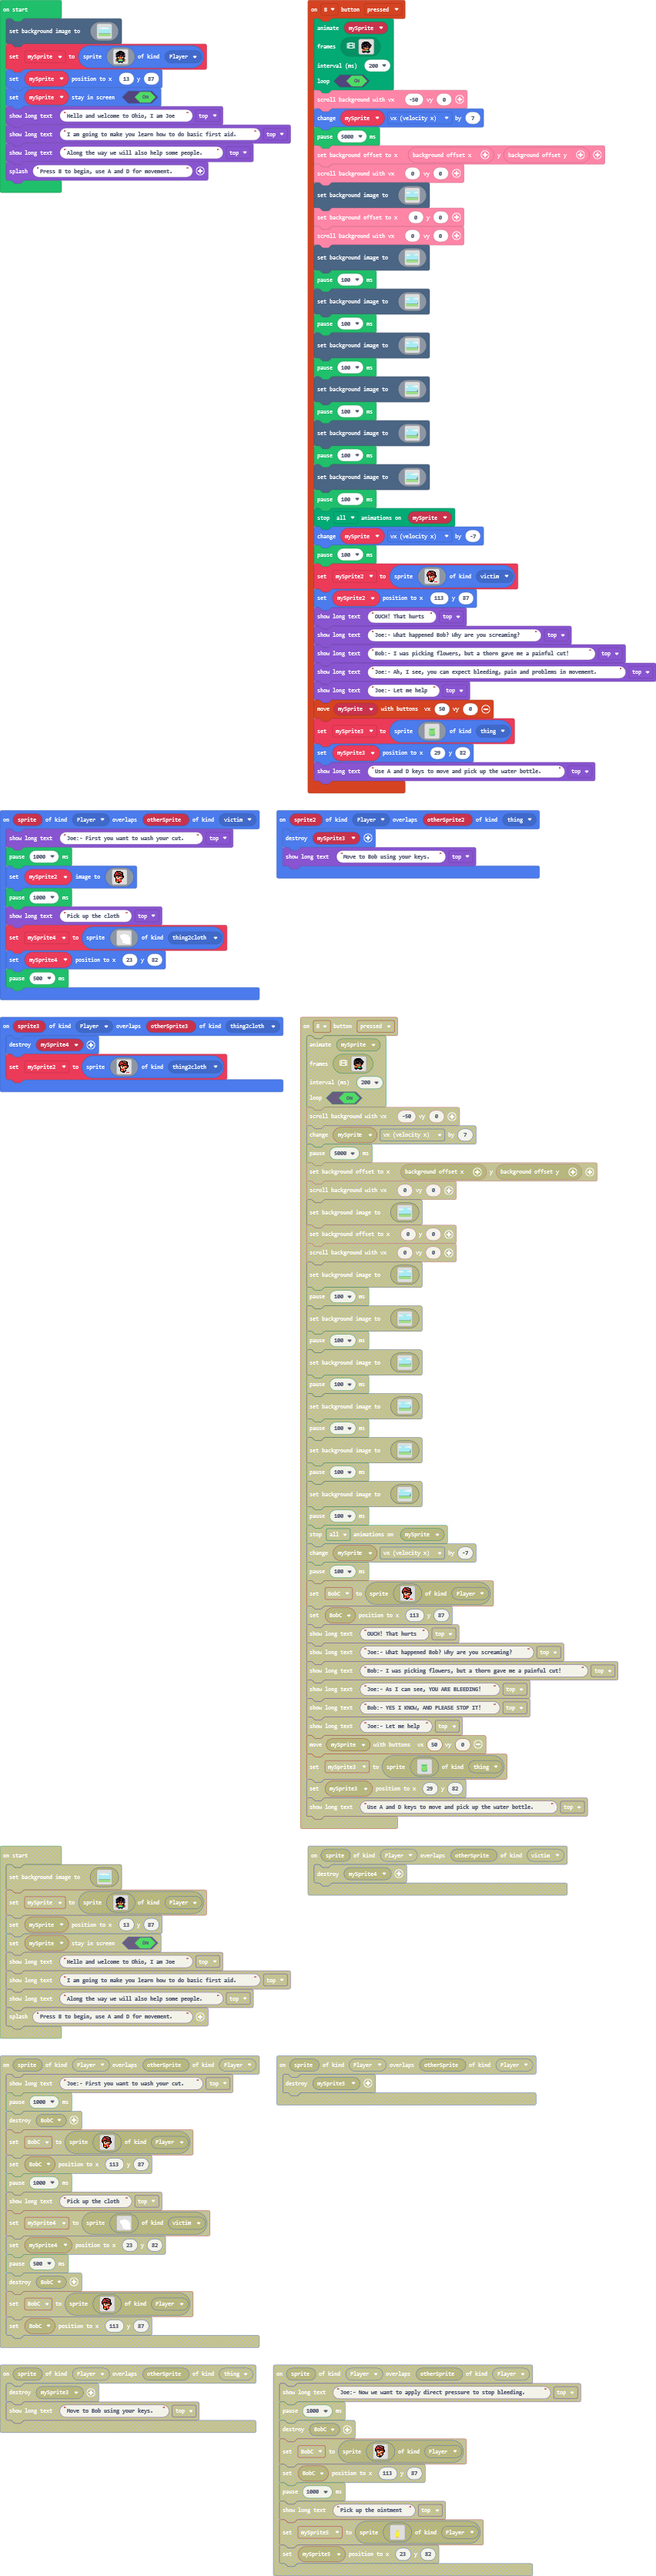
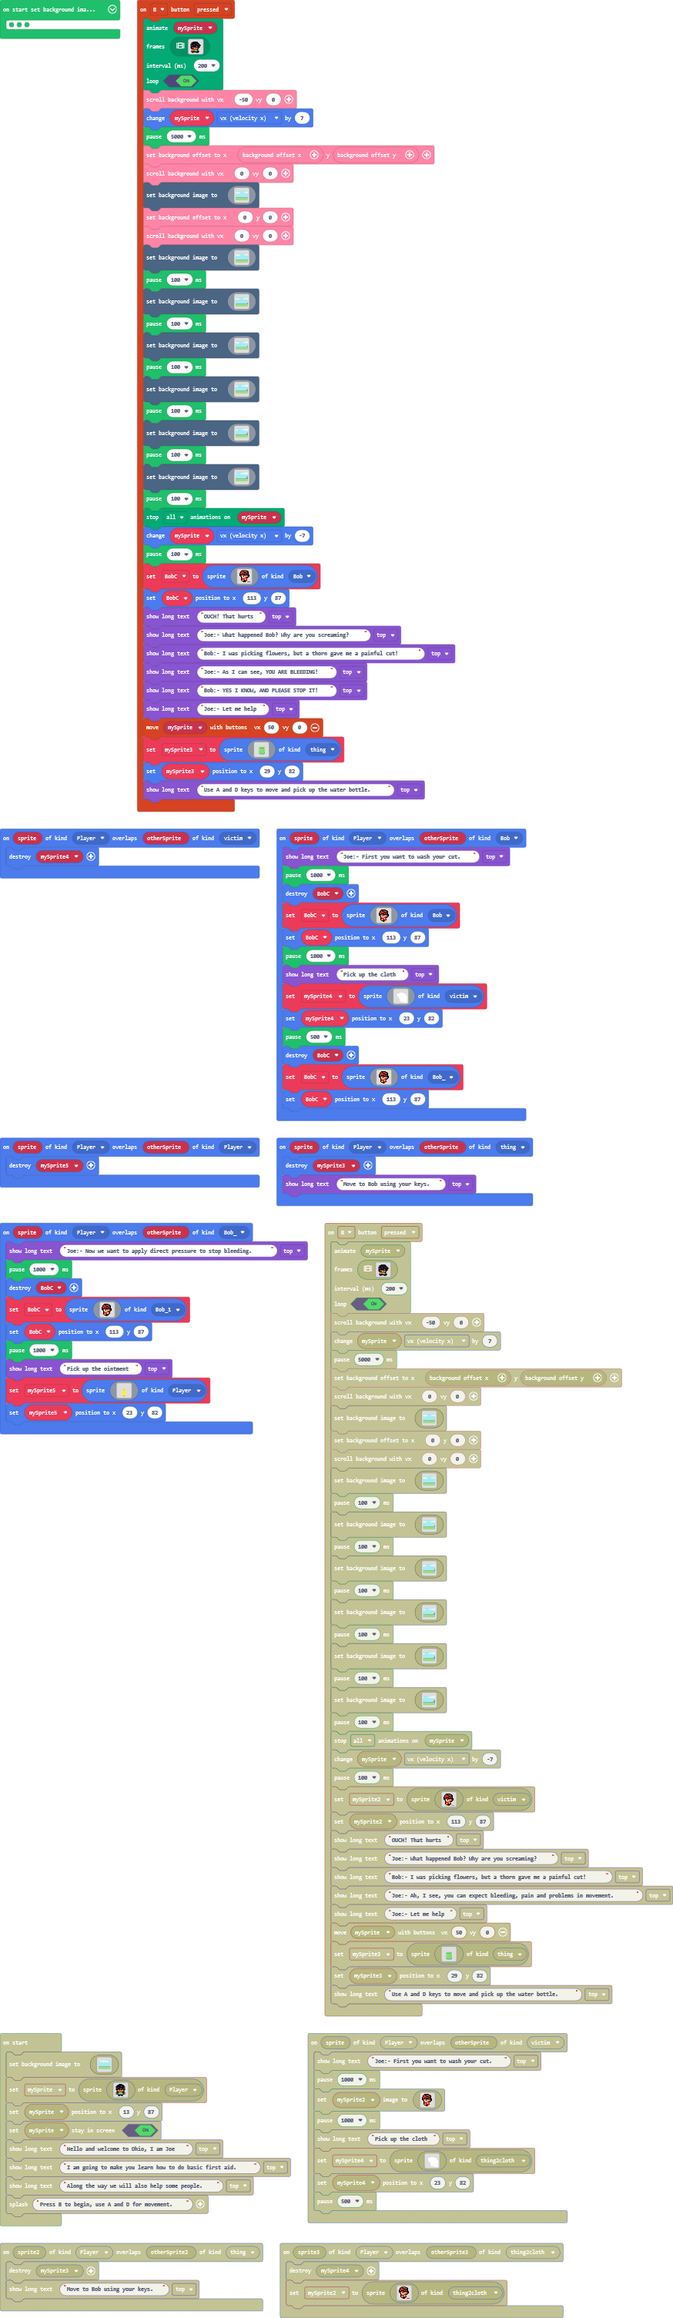
Akshat's bugifixing is best

diff --git a/main.ts b/main.ts
@@ -2,28 +2,11 @@ namespace SpriteKind {
     export const thing = SpriteKind.create()
     export const victim = SpriteKind.create()
     export const thing2cloth = SpriteKind.create()
+    export const Bob_ = SpriteKind.create()
+    export const Cloth = SpriteKind.create()
+    export const Bob_1 = SpriteKind.create()
+    export const Bob = SpriteKind.create()
 }
-sprites.onOverlap(SpriteKind.Player, SpriteKind.thing2cloth, function (sprite3, otherSprite3) {
-    sprites.destroy(mySprite4)
-    mySprite2 = sprites.create(img`
-        . . . . f f f f f f . . . . . . 
-        . . . f 2 f e e e e f f . . . . 
-        . . f 2 2 2 f e e e e f f . . . 
-        . . f e e e e f f e e e f . . . 
-        . f e 2 2 2 2 e e f f f f . . . 
-        . f 2 e f f f f 2 2 2 e f . . . 
-        . f f f e e e f f f f f f f . . 
-        . f e e 4 4 f b e 4 4 e f f . . 
-        . . f e d d f 1 4 d 4 e e f . . 
-        . . . f d d d d 4 e e e f . . . 
-        . . . f e 4 4 4 e e f f . . . . 
-        . . . f 2 2 2 e d 2 4 . . . . . 
-        . . . f 2 2 2 e d 2 e . . . . . 
-        . . . f 5 5 4 f e e f . . . . . 
-        . . . . f f f f f f . . . . . . 
-        . . . . . . f f f . . 2 2 2 2 . 
-        `, SpriteKind.thing2cloth)
-})
 controller.B.onEvent(ControllerButtonEvent.Pressed, function () {
     animation.runImageAnimation(
     mySprite,
@@ -952,7 +935,7 @@ controller.B.onEvent(ControllerButtonEvent.Pressed, function () {
     animation.stopAnimation(animation.AnimationTypes.All, mySprite)
     mySprite.vx += -7
     pause(100)
-    mySprite2 = sprites.create(img`
+    BobC = sprites.create(img`
         . . . . f f f f f f . . . . . . 
         . . . f 2 f e e e e f f . . . . 
         . . f 2 2 2 f e e e e f f . . . 
@@ -969,12 +952,13 @@ controller.B.onEvent(ControllerButtonEvent.Pressed, function () {
         . . . f 5 5 4 f e e f . . . . . 
         . . . . f f f f f f . . . . . . 
         . . . . . . f f f . . 2 2 2 2 . 
-        `, SpriteKind.victim)
-    mySprite2.setPosition(113, 87)
+        `, SpriteKind.Bob)
+    BobC.setPosition(113, 87)
     game.showLongText("OUCH! That hurts", DialogLayout.Top)
     game.showLongText("Joe:- What happened Bob? Why are you screaming?", DialogLayout.Top)
     game.showLongText("Bob:- I was picking flowers, but a thorn gave me a painful cut!", DialogLayout.Top)
-    game.showLongText("Joe:- Ah, I see, you can expect bleeding, pain and problems in movement.", DialogLayout.Top)
+    game.showLongText("Joe:- As I can see, YOU ARE BLEEDING!", DialogLayout.Top)
+    game.showLongText("Bob:- YES I KNOW, AND PLEASE STOP IT!", DialogLayout.Top)
     game.showLongText("Joe:- Let me help", DialogLayout.Top)
     controller.moveSprite(mySprite, 50, 0)
     mySprite3 = sprites.create(img`
@@ -1002,14 +986,11 @@ controller.B.onEvent(ControllerButtonEvent.Pressed, function () {
     mySprite3.setPosition(29, 82)
     game.showLongText("Use A and D keys to move and pick up the water bottle.", DialogLayout.Top)
 })
-sprites.onOverlap(SpriteKind.Player, SpriteKind.thing, function (sprite2, otherSprite2) {
-    sprites.destroy(mySprite3)
-    game.showLongText("Move to Bob using your keys.", DialogLayout.Top)
-})
-sprites.onOverlap(SpriteKind.Player, SpriteKind.victim, function (sprite, otherSprite) {
+sprites.onOverlap(SpriteKind.Player, SpriteKind.Bob, function (sprite, otherSprite) {
     game.showLongText("Joe:- First you want to wash your cut.", DialogLayout.Top)
     pause(1000)
-    mySprite2.setImage(img`
+    sprites.destroy(BobC)
+    BobC = sprites.create(img`
         . . . . f f f f f f . . . . . . 
         . . . f 2 f e e e e f f . . . . 
         . . f 2 2 2 f e e e e f f . . . 
@@ -1026,7 +1007,8 @@ sprites.onOverlap(SpriteKind.Player, SpriteKind.victim, function (sprite, otherS
         . . . f 5 5 4 f e 2 f . . . . . 
         . . . . f f f f 2 2 . . . . . . 
         . . . . . . f f 2 . . . . . . . 
-        `)
+        `, SpriteKind.Bob)
+    BobC.setPosition(113, 87)
     pause(1000)
     game.showLongText("Pick up the cloth", DialogLayout.Top)
     mySprite4 = sprites.create(img`
@@ -1046,13 +1028,93 @@ sprites.onOverlap(SpriteKind.Player, SpriteKind.victim, function (sprite, otherS
         . . . . . . 1 1 1 1 1 1 1 1 1 1 
         . . . . . . . 1 1 1 1 1 1 1 1 1 
         . . . . . . . . . . 1 1 1 1 1 1 
-        `, SpriteKind.thing2cloth)
+        `, SpriteKind.victim)
     mySprite4.setPosition(23, 82)
     pause(500)
+    sprites.destroy(BobC)
+    BobC = sprites.create(img`
+        . . . . f f f f f f . . . . . . 
+        . . . f 2 f e e e e f f . . . . 
+        . . f 2 2 2 f e e e e f f . . . 
+        . . f e e e e f f e e e f . . . 
+        . f e 2 2 2 2 e e f f f f . . . 
+        . f 2 e f f f f 2 2 2 e f . . . 
+        . f f f e e e f f f f f f f . . 
+        . f e e 4 4 f b e 4 4 e f f . . 
+        . . f e d d f 1 4 d 4 e e f . . 
+        . . . f d d d d 4 e e e f . . . 
+        . . . f e 4 4 4 e e f f . . . . 
+        . . . f 2 2 2 e d 2 4 . . . . . 
+        . . . f 2 2 2 e d 2 e . . . . . 
+        . . . f 5 5 4 f e 2 f . . . . . 
+        . . . . f f f f 2 2 . . . . . . 
+        . . . . . . f f 2 . . . . . . . 
+        `, SpriteKind.Bob_)
+    BobC.setPosition(113, 87)
 })
-let mySprite3: Sprite = null
-let mySprite2: Sprite = null
+sprites.onOverlap(SpriteKind.Player, SpriteKind.Player, function (sprite, otherSprite) {
+    sprites.destroy(mySprite5)
+})
+sprites.onOverlap(SpriteKind.Player, SpriteKind.victim, function (sprite, otherSprite) {
+    sprites.destroy(mySprite4)
+})
+sprites.onOverlap(SpriteKind.Player, SpriteKind.thing, function (sprite, otherSprite) {
+    sprites.destroy(mySprite3)
+    game.showLongText("Move to Bob using your keys.", DialogLayout.Top)
+})
+sprites.onOverlap(SpriteKind.Player, SpriteKind.Bob_, function (sprite, otherSprite) {
+    game.showLongText("Joe:- Now we want to apply direct pressure to stop bleeding.", DialogLayout.Top)
+    pause(1000)
+    sprites.destroy(BobC)
+    BobC = sprites.create(img`
+        . . . . f f f f f f . . . . . . 
+        . . . f 2 f e e e e f f . . . . 
+        . . f 2 2 2 f e e e e f f . . . 
+        . . f e e e e f f e e e f . . . 
+        . f e 2 2 2 2 e e f f f f . . . 
+        . f 2 e f f f f 2 2 2 e f . . . 
+        . f f f e e e f f f f f f f . . 
+        . f e e 4 4 f b e 4 4 e f f . . 
+        . . f e d d f 1 4 d 4 e e f . . 
+        . . . f d d d d 4 e e e f . . . 
+        . . . f e 4 4 4 e e f f . . . . 
+        . . . f 2 2 2 e d 3 4 f . . . . 
+        . . . f 2 2 2 e d 3 e f . . . . 
+        . . . f 5 5 4 f e e f . . . . . 
+        . . . . f f f f f f . . . . . . 
+        . . . . . . f f f . . . . . . . 
+        `, SpriteKind.Bob_1)
+    BobC.setPosition(113, 87)
+    pause(1000)
+    game.showLongText("Pick up the ointment", DialogLayout.Top)
+    mySprite5 = sprites.create(img`
+        ....................
+        ....................
+        ....................
+        ....................
+        ....................
+        ....................
+        ........dd55........
+        ........5555........
+        .........44.........
+        ........5555........
+        ........5d55........
+        .......5d5555.......
+        .......d55555.......
+        .......555555.......
+        .......555555.......
+        .......555555.......
+        .......555555.......
+        ........5555........
+        ........4444........
+        ....................
+        `, SpriteKind.Player)
+    mySprite5.setPosition(23, 82)
+})
+let mySprite5: Sprite = null
 let mySprite4: Sprite = null
+let mySprite3: Sprite = null
+let BobC: Sprite = null
 let mySprite: Sprite = null
 scene.setBackgroundImage(img`
     9999999999999999999999999999999999999999999999999999999999999999999999999999999999999999999999999999999999999999999999999999999999999999999999999999999999999999
